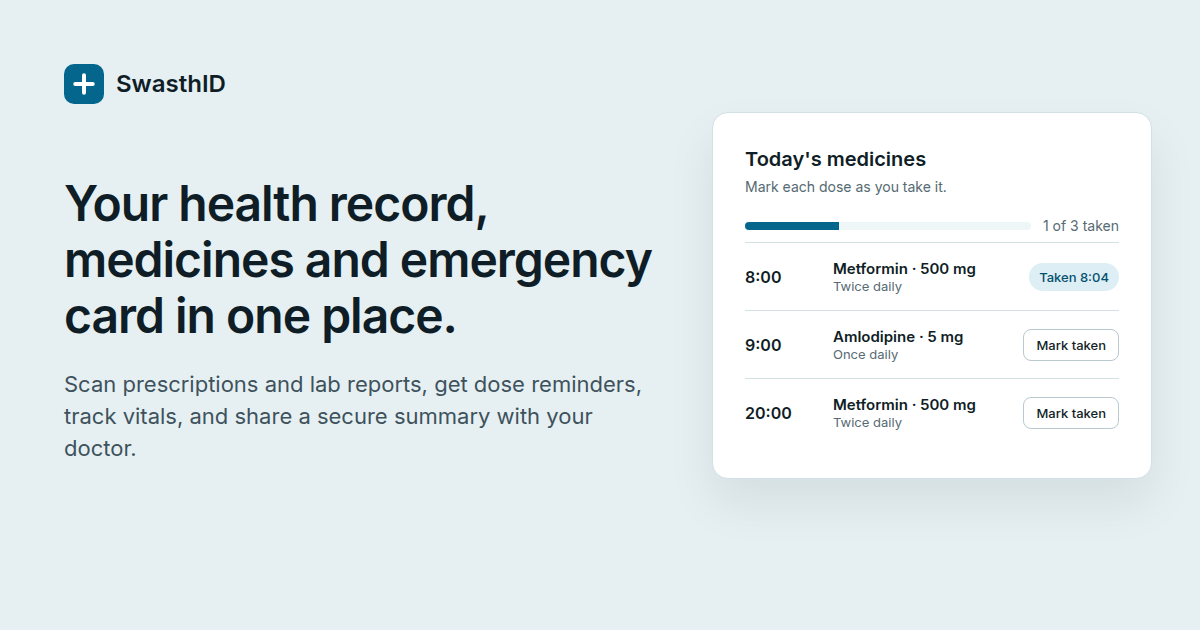
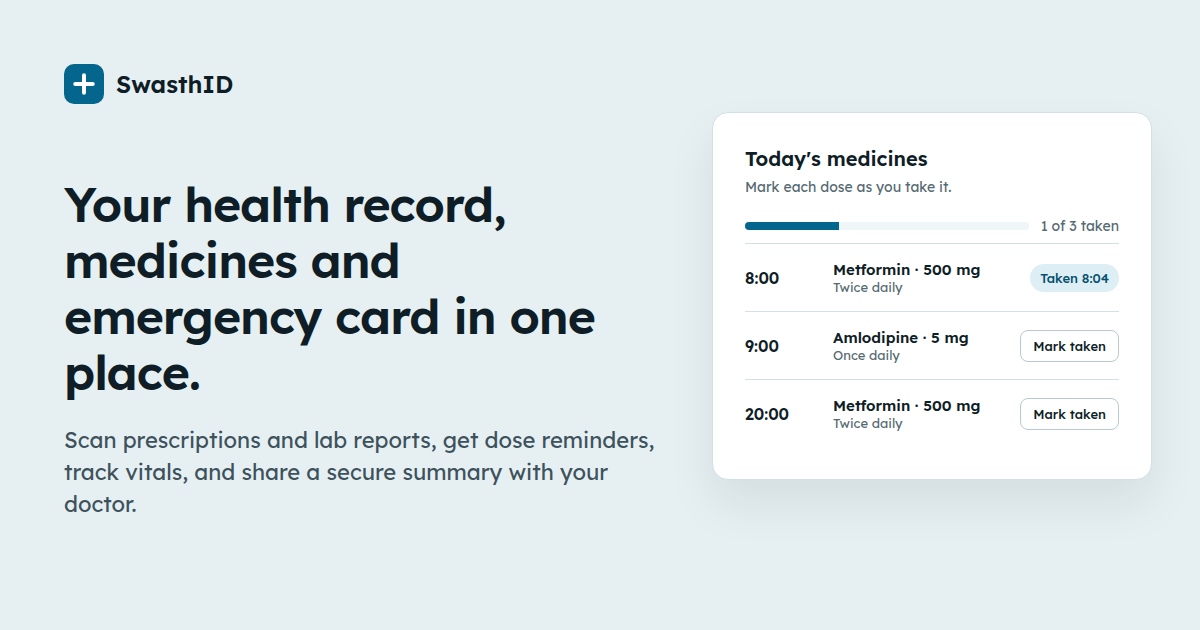
Switch the typeface to Lexend
Inter read as generic. Lexend was designed from reading-fluency research
and stays open and clear at small sizes, which suits an app people use
to read doses and times. It replaces Inter in the app, the doctor share
page, the text the PDFs draw for non-Latin scripts and the OG image.
Two old legacy rules that named Inter now use the --font token.

Lexend is wider, so on small phones the tab bars tighten their padding
and the four vital-sign types sit in a 2 x 2 grid instead of running off
the edge. Checked every screen at 360 px for overflow.

Claude-Session: https://claude.ai/code/session_01JbR14m6QHNsWP2U9tFqton

diff --git a/SwasthID-Render/assets/app.css b/SwasthID-Render/assets/app.css
@@ -3,7 +3,7 @@
    --------------------------------------------------------------------------
    Rules this file follows (and anything added to it must follow):
    - Spacing: 4 pt scale only (--space-*). No other margin/padding/gap values.
-   - Type: Inter for everything; sizes and line heights come from the ramp.
+   - Type: Lexend for everything; sizes and line heights come from the ramp.
      Weights: 400 body, 500 labels/UI, 600 headings. Nothing lighter or bolder.
    - Colour: neutrals + one brand green + four status colours. Status colours
      are only used to mean their status.
@@ -25,7 +25,9 @@
   --space-5: 20px; --space-6: 24px; --space-8: 32px; --space-10: 40px;
   --space-12: 48px; --space-16: 64px;
 
-  --font: 'Inter', system-ui, -apple-system, 'Segoe UI', Roboto, sans-serif;
+  /* Lexend: designed from reading-fluency research, with open, evenly
+     spaced letters that stay clear at small sizes, doses included. */
+  --font: 'Lexend', system-ui, -apple-system, 'Segoe UI', Roboto, sans-serif;
   /* Type ramp: size / line height */
   --text-xs: 12px;   --leading-xs: 16px;
   --text-sm: 14px;   --leading-sm: 20px;
@@ -842,6 +844,13 @@ body.dark-mode { --c-hero: #0E2B37; --c-on-hero: #E4EDF0; --c-on-hero-2: rgba(22
 .vitals-types span { display: inline-flex; align-items: center; height: 32px; padding: 0 var(--space-3); border-radius: var(--radius-inner); font-weight: 500; color: var(--c-text-2); cursor: pointer; white-space: nowrap; transition: background-color var(--dur) var(--ease), color var(--dur) var(--ease); }
 .vitals-types input:checked + span { background: var(--c-surface); color: var(--c-text); box-shadow: 0 0 0 1px var(--c-border); }
 .vitals-types input:focus-visible + span { outline: 2px solid var(--c-brand); outline-offset: 2px; }
+/* Small phones: tab bars tighten up, and the four measurement types sit in
+   a 2 x 2 grid instead of scrolling out of view. */
+@media (max-width: 480px) {
+  .segmented button { padding: 0 var(--space-2); }
+  .vitals-types { display: grid; grid-template-columns: 1fr 1fr; width: 100%; }
+  .vitals-types span { width: 100%; justify-content: center; }
+}
 .inline-editor-overlay, .profile-modal-overlay, .modal { background: var(--c-scrim); backdrop-filter: none; }
 .inline-editor-overlay { position: fixed; inset: 0; z-index: 11000; display: flex; align-items: center; justify-content: center; padding: var(--space-4); }
 .inline-editor-overlay[hidden] { display: none; }

diff --git a/SwasthID-Render/assets/legacy.css b/SwasthID-Render/assets/legacy.css
@@ -504,7 +504,7 @@
  }
 
  body, .med-action, .call-btn,
- input, button, select { font-family: 'Inter', 'Work Sans', sans-serif; }
+ input, button, select { font-family: var(--font, sans-serif); }
  
 
  /* ---- Navbar blur on scroll ---- */
@@ -973,7 +973,7 @@ body.dark-mode [style*="linear-gradient"]{color:var(--ink)}
 
 /* ---- swasth-theme-redesign ---- */
 #darkModeToggle{position:relative;right:auto;bottom:auto;z-index:auto}
-.theme-toggle{display:inline-flex;align-items:center;justify-content:center;gap:7px;height:34px;padding:0 10px;border:1px solid #D7DEE1;border-radius:9px;background:#fff;color:#43554f;font:600 12px/1 'Inter','Work Sans',sans-serif;cursor:pointer;transition:background .2s,border-color .2s,color .2s,transform .15s}.theme-toggle:hover{background:#F3F6F7;border-color:#B9C6CB;transform:translateY(-1px)}.theme-toggle:focus-visible{outline:3px solid rgba(8,100,136,.18);outline-offset:2px}
+.theme-toggle{display:inline-flex;align-items:center;justify-content:center;gap:7px;height:34px;padding:0 10px;border:1px solid #D7DEE1;border-radius:9px;background:#fff;color:#43554f;font:600 12px/1 var(--font, sans-serif);cursor:pointer;transition:background .2s,border-color .2s,color .2s,transform .15s}.theme-toggle:hover{background:#F3F6F7;border-color:#B9C6CB;transform:translateY(-1px)}.theme-toggle:focus-visible{outline:3px solid rgba(8,100,136,.18);outline-offset:2px}
 body.dark-mode{--bg:#0B1012;--surface:#12191C;--paper:#0F1517;--ink:#EDF3F5;--muted:#9fb2aa;--line:#29363B;--sage:#172A31;--sage-line:#314B55;--teal:#6AB7D5;--gov-blue:#86b8e9;--brand:#5FA7C4;--saffron:#ffad62;background:var(--bg);color:var(--ink)}
 body.dark-mode .theme-toggle{background:#182023;border-color:#344349;color:#E8EFF2}body.dark-mode .theme-toggle:hover{background:#202B30;border-color:#465961}
 body.dark-mode .topbar {background:rgba(15,21,24,.94);border-color:var(--line);color:var(--ink)}

diff --git a/SwasthID-Render/server.js b/SwasthID-Render/server.js
@@ -983,12 +983,12 @@ function recordSharePage(token) {
 
 <link rel="icon" href="/assets/favicon.svg" type="image/svg+xml">
 <link rel="preconnect" href="https://fonts.googleapis.com">
-<link href="https://fonts.googleapis.com/css2?family=Inter:wght@400;500;600&display=swap" rel="stylesheet">
+<link href="https://fonts.googleapis.com/css2?family=Lexend:wght@400;500;600&display=swap" rel="stylesheet">
 <style>
-/* Same tokens as assets/app.css: 4 pt spacing, Inter, 8/12 px radii. */
+/* Same tokens as assets/app.css: 4 pt spacing, Lexend, 8/12 px radii. */
 :root{--bg:#E6F0F3;--surface:#F7FBFC;--surface-2:#EEF6F8;--border:#D3E0E5;--text:#0F1E26;--text-2:#3E525C;--text-3:#556A72;--brand:#05668D;--brand-soft:#DDEEF4;--brand-text:#04506F;--danger:#B42318}
 *{box-sizing:border-box}
-body{margin:0;background:var(--bg);color:var(--text);font:400 14px/20px Inter,system-ui,-apple-system,"Segoe UI",sans-serif;-webkit-font-smoothing:antialiased}
+body{margin:0;background:var(--bg);color:var(--text);font:400 14px/20px "Lexend",system-ui,-apple-system,"Segoe UI",sans-serif;-webkit-font-smoothing:antialiased}
 .wrap{max-width:880px;margin:0 auto;padding:32px 16px 64px}
 .top{margin-bottom:24px}
 .brand{display:flex;align-items:center;gap:8px;font-size:16px;line-height:24px;font-weight:600;color:var(--text);margin-bottom:24px}

diff --git a/SwasthID-Render/index.html b/SwasthID-Render/index.html
@@ -22,7 +22,7 @@
 <meta name="twitter:card" content="summary_large_image">
 <link rel="preconnect" href="https://fonts.googleapis.com">
 <link rel="preconnect" href="https://fonts.gstatic.com" crossorigin>
-<link href="https://fonts.googleapis.com/css2?family=Inter:wght@400;500;600&display=swap" rel="stylesheet">
+<link href="https://fonts.googleapis.com/css2?family=Lexend:wght@400;500;600&display=swap" rel="stylesheet">
 <style>@layer legacy, app;</style>
 <link rel="stylesheet" href="/assets/legacy.css">
 <link rel="stylesheet" href="/assets/app.css">
@@ -7013,7 +7013,7 @@ const SwasthPdf = (() => {
   const PT = 0.3528;          // mm per point
   const PX_PER_MM = 12;       // canvas resolution for non-Latin text (~300 dpi)
   const ENCODABLE = /^[\x20-\x7E\xA0-\xFF–—‘’“”•…]*$/;
-  const CANVAS_FONT = 'Inter, "Noto Sans", "Noto Sans Devanagari", "Noto Sans Bengali", "Nirmala UI", system-ui, sans-serif';
+  const CANVAS_FONT = '"Lexend", "Noto Sans", "Noto Sans Devanagari", "Noto Sans Bengali", "Nirmala UI", system-ui, sans-serif';
 
   // "2026-08-02" is a calendar date, not midnight UTC, so read it as local.
   function toDate(v) {
